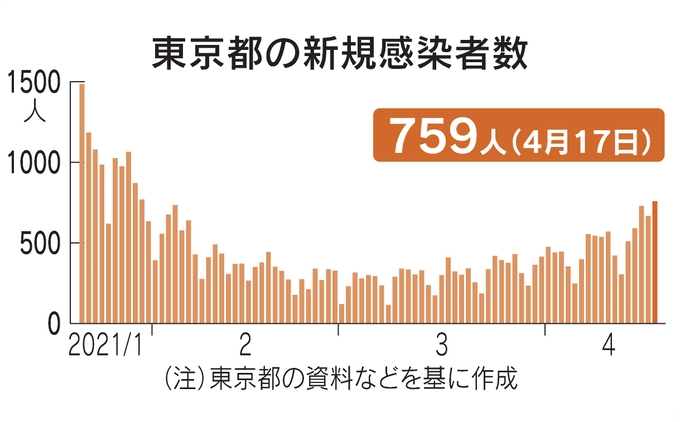
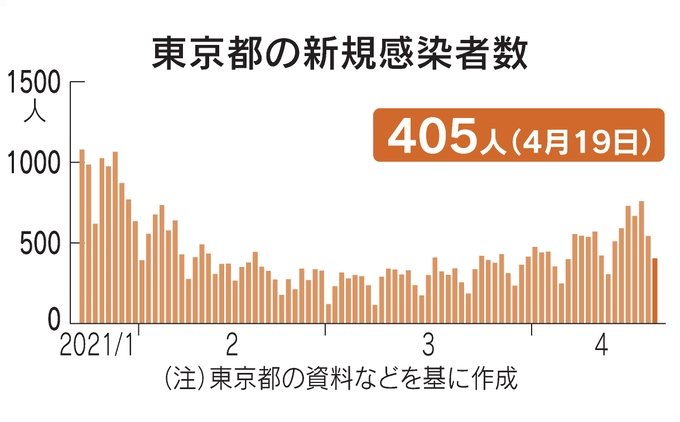
regular update

diff --git a/parts/news.php b/parts/news.php
@@ -46,6 +46,44 @@
         </li>
 
     <hr> -->
+        2021年04月19日
+    
+        <li>
+                <i class="far fa-file-alt"></i>
+                <a href="https://www.nikkei.com/article/DGXZQOCC190IT0Z10C21A4000000/" target="blank" rel="noopener">
+                東京都、新たに405人感染　新型コロナ</a>
+        </li>
+        <li>
+                <i class="far fa-file-alt"></i>
+                <a href="https://www.nikkei.com/article/DGXZQOUF134CA0T10C21A4000000/" target="blank" rel="noopener">
+                大阪知事、緊急事態宣言要請へ　「感染は危機的状況」</a>
+        </li>
+        <li>
+                <i class="far fa-file-alt"></i>
+                <a href="https://www.nikkei.com/article/DGXZQOGN1843N0Y1A410C2000000/" target="blank" rel="noopener">
+                世界の新規感染、1日最多76万人　インドで変異型が猛威</a>
+        </li>
+
+    <hr>
+        2021年04月18日
+    
+        <li>
+                <i class="far fa-file-alt"></i>
+                <a href="https://www.nikkei.com/article/DGXZQOCC181DY0Y1A410C2000000/" target="blank" rel="noopener">
+                東京都、新たに543人感染　新型コロナ</a>
+        </li>
+        <li>
+                <i class="far fa-file-alt"></i>
+                <a href="https://www.nikkei.com/article/DGXZQOUA180BB0Y1A410C2000000/" target="blank" rel="noopener">
+                ワクチン、9月末までに国内全対象者分を調達　河野氏　「ファイザーと実質合意」</a>
+        </li>
+        <li>
+                <i class="far fa-file-alt"></i>
+                <a href="https://www.nikkei.com/article/DGXZQOGM076920X00C21A4000000/" target="blank" rel="noopener">
+                シンガポールのワクチン接種、スマホ予約5分で完了</a>
+        </li>
+
+    <hr>
         2021年04月17日
     
         <li>

diff --git a/parts/info.php b/parts/info.php
@@ -4,17 +4,26 @@
 
   <div class="line"> INFO <i class="fas fa-info-circle"></i></div>
 
-  <li>2021年04月17日</li>
-  <div class="info-children"><span><a href="english-memo.php">英文法 Memo</a><i class="fas fa-external-link-alt"></i></th> 15～20追加</span></div>
+  <li>2021年04月19日</li>
+  <div class="info-children"><span><a href="english-memo.php">英単語 複合名詞</a></th> 600～612追加</span></div>
+
+  <li>2021年04月19日</li>
+  <div class="info-children"><span><a href="english-memo.php">英文法 Memo</a></th> 27～32追加</span></div>
+
+  <li>2021年04月18日</li>
+  <div class="info-children"><span><a href="english-memo.php">英文法 Memo</a></th> 21～26追加</span></div>
 
   <li>2021年04月17日</li>
-  <div class="info-children"><span><a href="english-memo.php">英単語 複合名詞</a><i class="fas fa-external-link-alt"></i></th> 593～追加</span></div>
+  <div class="info-children"><span><a href="english-memo.php">英文法 Memo</a></th> 15～20追加</span></div>
+
+  <li>2021年04月17日</li>
+  <div class="info-children"><span><a href="english-memo.php">英単語 複合名詞</a></th> 593～追加</span></div>
 
   <li>2021年04月16日</li>
-  <div class="info-children"><span><a href="english-memo.php">英文法 Memo</a><i class="fas fa-external-link-alt"></i></th> 9～14追加</span></div>
+  <div class="info-children"><span><a href="english-memo.php">英文法 Memo</a></th> 9～14追加</span></div>
 
   <li>2021年04月15日</li>
-  <div class="info-children"><span><a href="english-memo.php">英文法 Memo</a><i class="fas fa-external-link-alt"></i></th> 作成</span></div>
+  <div class="info-children"><span><a href="english-memo.php">英文法 Memo</a></th> 作成</span></div>
   
   <li>2021年04月15日</li>
   <div class="info-children"><span><a href="diary.php">DIARY（儚さ）</a> 追加</span></div>
